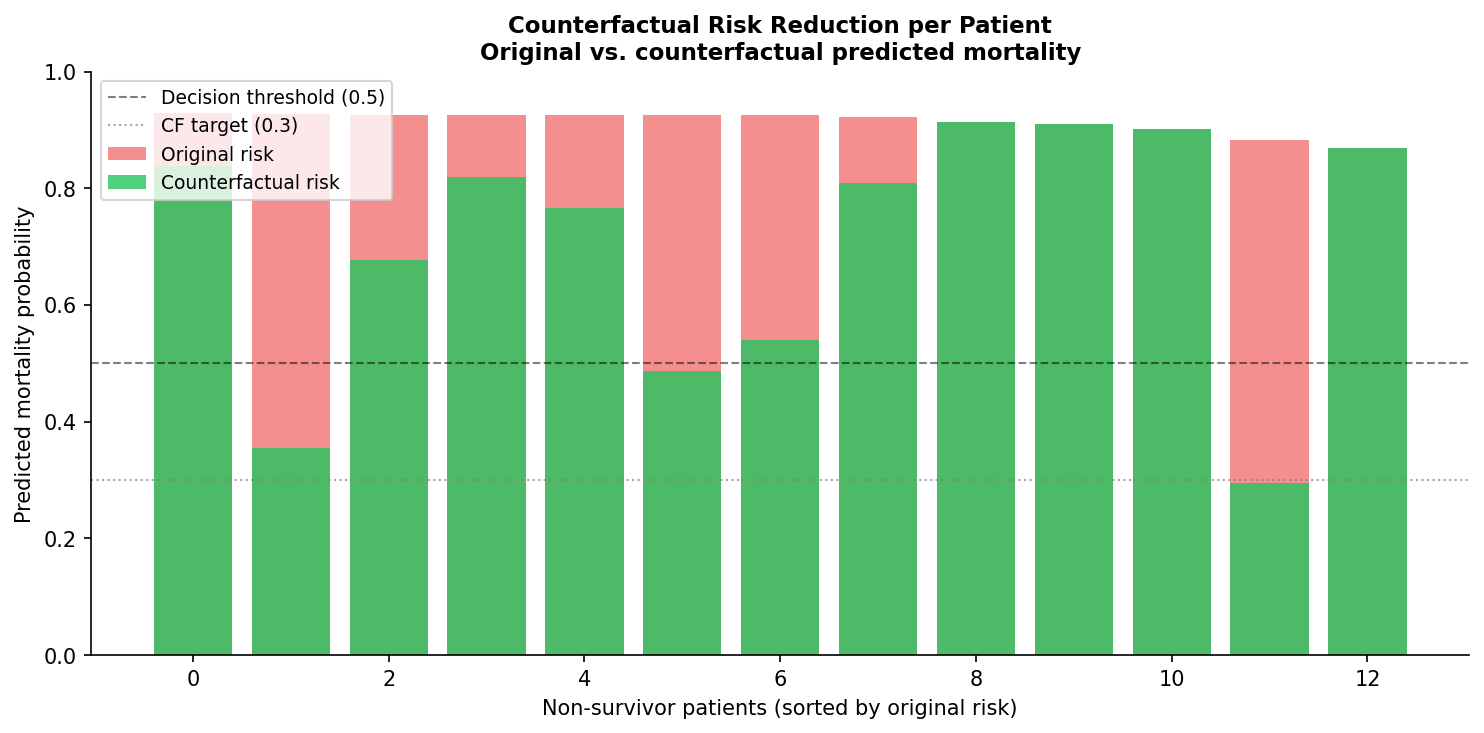
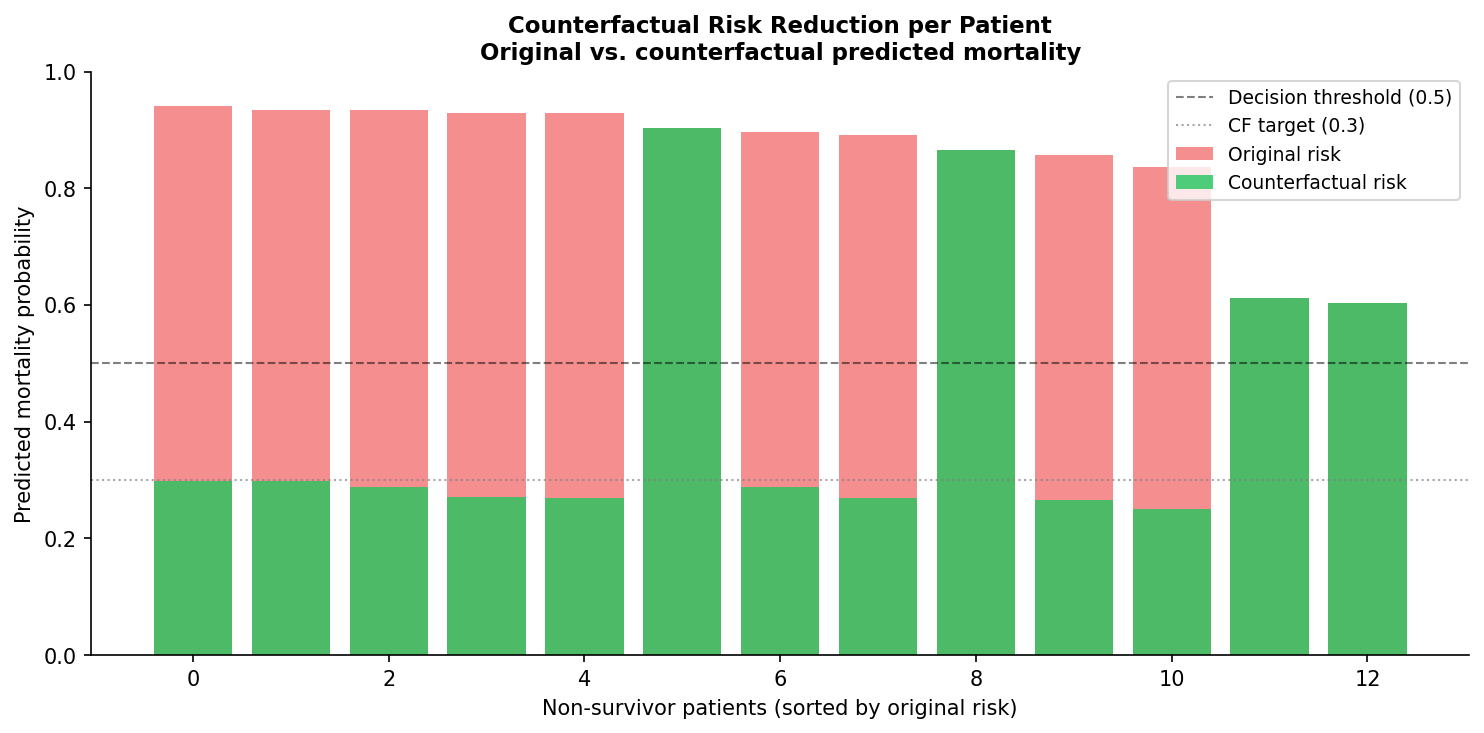
Counterfactual: 12/13 converged (92.3%), mean risk reduction 43.4pp — restarts + 1000 steps

Changed region(s): [[0.062, 0.1201, 0.9919, 0.7203]]

diff --git a/counterfactual.py b/counterfactual.py
@@ -58,10 +58,10 @@ FOLD       = 0        # use fold 0 trained model
 
 # Counterfactual optimization settings
 CF_LR           = 0.05    # step size for latent perturbation
-CF_STEPS        = 500     # max gradient steps
+CF_STEPS        = 1000     # max gradient steps
 CF_TARGET_PROB  = 0.30    # push non-survivors below this mortality probability
 CF_LAMBDA_DIST  = 0.5     # regularization: penalize large latent perturbations
-CF_PATIENCE     = 50      # stop early if loss hasn't improved
+CF_PATIENCE     = 400      # stop early if loss hasn't improved
 
 
 # ── Load protein names ────────────────────────────────────────────────────────
@@ -282,7 +282,17 @@ def find_counterfactual(
             best_prob  = current_prob
             break
 
-        # Early stopping
+        # Momentum restart when stuck — nudge harder toward survivor centroid
+        if no_improve == 150:
+            with torch.no_grad():
+                delta_z.data = best_delta.clone() + direction * 0.3
+            optimizer = torch.optim.Adam([delta_z], lr=lr * 2.0)
+        # Hard restart at 300 steps stuck — try opposite direction
+        if no_improve == 300:
+            with torch.no_grad():
+                delta_z.data = direction * 0.5
+            optimizer = torch.optim.Adam([delta_z], lr=lr)
+        # Early stopping only after restart attempts
         if no_improve >= patience:
             break
 
